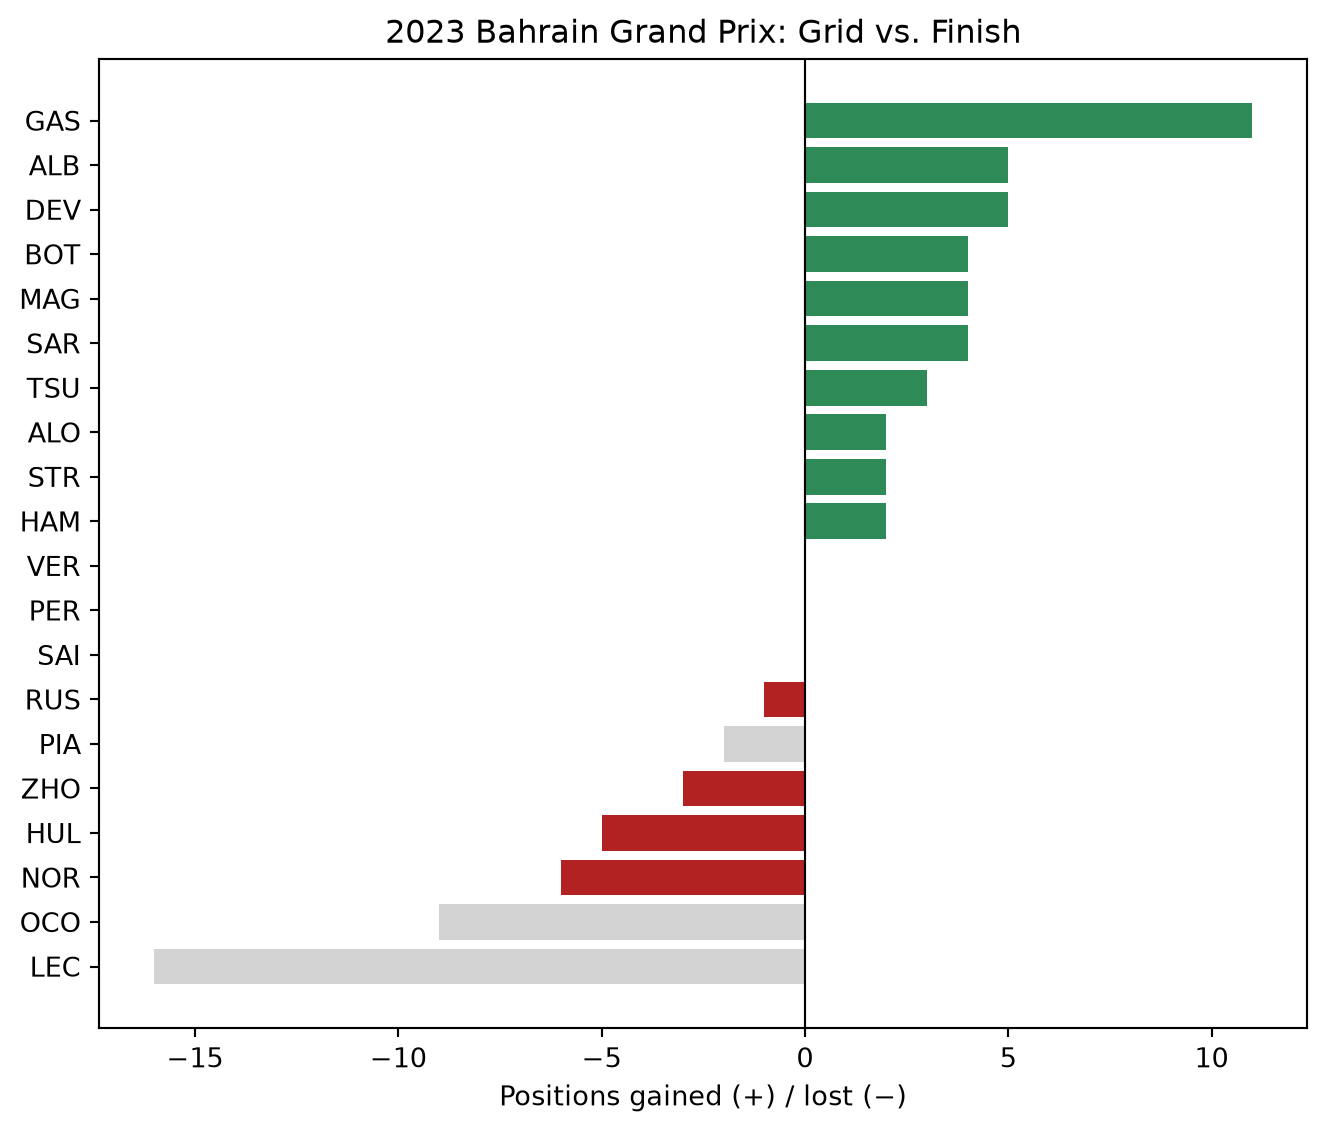
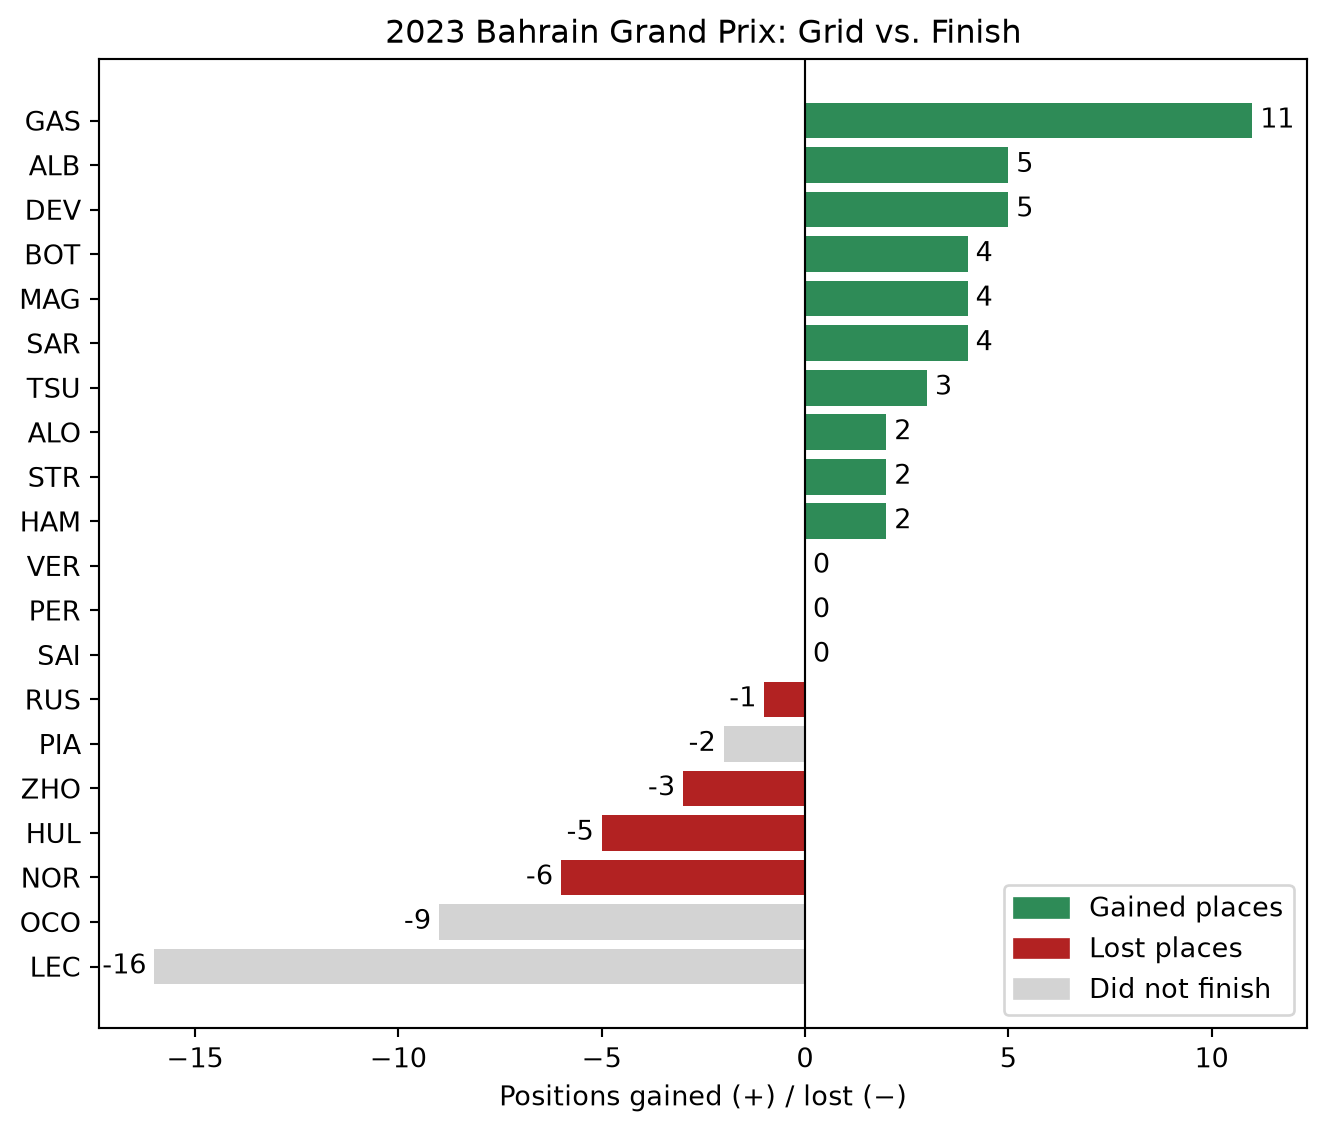
Made improvements to the graph and added the interpretation of the graph

Changed region(s): [[0.7421, 0.7737, 0.9894, 0.8974], [0.3092, 0.8046, 0.3401, 0.8355], [0.0928, 0.8355, 0.1237, 0.8665]]

diff --git a/docs/posts/f1-positions/f1.html b/docs/posts/f1-positions/f1.html
@@ -306,7 +306,7 @@ window.Quarto = {
 </section>
 <section id="step-1-load-the-files" class="level2">
 <h2 class="anchored" data-anchor-id="step-1-load-the-files">Step 1: Load the files</h2>
-<div id="2a79a742" class="cell" data-execution_count="1">
+<div id="09891d88" class="cell" data-execution_count="1">
 <div class="code-copy-outer-scaffold"><div class="sourceCode cell-code" id="cb1"><pre class="sourceCode python code-with-copy"><code class="sourceCode python"><span id="cb1-1"><a href="#cb1-1" aria-hidden="true" tabindex="-1"></a><span class="im">import</span> pandas <span class="im">as</span> pd</span>
 <span id="cb1-2"><a href="#cb1-2" aria-hidden="true" tabindex="-1"></a><span class="im">import</span> matplotlib.pyplot <span class="im">as</span> plt</span>
 <span id="cb1-3"><a href="#cb1-3" aria-hidden="true" tabindex="-1"></a></span>
@@ -382,7 +382,7 @@ window.Quarto = {
 <section id="step-2-pick-one-race" class="level2">
 <h2 class="anchored" data-anchor-id="step-2-pick-one-race">Step 2: Pick one race</h2>
 <p>Each race has its own <code>raceId</code>. Rather than memorizing ID numbers, we can look it up in <code>races</code> by year and name:</p>
-<div id="ba6c0bd4" class="cell" data-execution_count="2">
+<div id="2449435b" class="cell" data-execution_count="2">
 <div class="code-copy-outer-scaffold"><div class="sourceCode cell-code" id="cb2"><pre class="sourceCode python code-with-copy"><code class="sourceCode python"><span id="cb2-1"><a href="#cb2-1" aria-hidden="true" tabindex="-1"></a>YEAR <span class="op">=</span> <span class="dv">2023</span></span>
 <span id="cb2-2"><a href="#cb2-2" aria-hidden="true" tabindex="-1"></a>RACE <span class="op">=</span> <span class="st">"Bahrain Grand Prix"</span></span>
 <span id="cb2-3"><a href="#cb2-3" aria-hidden="true" tabindex="-1"></a></span>
@@ -400,7 +400,7 @@ window.Quarto = {
 <section id="step-3-filter-and-merge" class="level2">
 <h2 class="anchored" data-anchor-id="step-3-filter-and-merge">Step 3: Filter and merge</h2>
 <p>Now we keep only the rows for that race and use <code>.merge()</code> to attach each driver’s three-letter code (like <code>VER</code> or <code>HAM</code>) by matching on <code>driverId</code>:</p>
-<div id="91aa9662" class="cell" data-execution_count="3">
+<div id="f627aa9d" class="cell" data-execution_count="3">
 <div class="code-copy-outer-scaffold"><div class="sourceCode cell-code" id="cb4"><pre class="sourceCode python code-with-copy"><code class="sourceCode python"><span id="cb4-1"><a href="#cb4-1" aria-hidden="true" tabindex="-1"></a>df <span class="op">=</span> (</span>
 <span id="cb4-2"><a href="#cb4-2" aria-hidden="true" tabindex="-1"></a>    results[results[<span class="st">"raceId"</span>] <span class="op">==</span> race_id]</span>
 <span id="cb4-3"><a href="#cb4-3" aria-hidden="true" tabindex="-1"></a>    .merge(drivers[[<span class="st">"driverId"</span>, <span class="st">"code"</span>, <span class="st">"surname"</span>]], on<span class="op">=</span><span class="st">"driverId"</span>)</span>
@@ -480,7 +480,7 @@ window.Quarto = {
 <li><strong>Pit-lane starts.</strong> A driver who starts from the pit lane has <code>grid = 0</code>. Left alone, that would make it look like they started <em>ahead</em> of pole position. We’ll treat them as starting from the back of the grid.</li>
 <li><strong>Did not finish (DNF).</strong> A driver who retires on lap 1 will look like they “lost” a lot of places, even though they didn’t race. We’ll flag those drivers so we can interpret them separately.</li>
 </ol>
-<div id="8682a9fa" class="cell" data-execution_count="4">
+<div id="7984eca3" class="cell" data-execution_count="4">
 <div class="code-copy-outer-scaffold"><div class="sourceCode cell-code" id="cb5"><pre class="sourceCode python code-with-copy"><code class="sourceCode python"><span id="cb5-1"><a href="#cb5-1" aria-hidden="true" tabindex="-1"></a>n_starters <span class="op">=</span> <span class="bu">len</span>(df)</span>
 <span id="cb5-2"><a href="#cb5-2" aria-hidden="true" tabindex="-1"></a>df[<span class="st">"grid_position"</span>] <span class="op">=</span> df[<span class="st">"grid_position"</span>].replace(<span class="dv">0</span>, n_starters)</span>
 <span id="cb5-3"><a href="#cb5-3" aria-hidden="true" tabindex="-1"></a></span>
@@ -500,7 +500,7 @@ window.Quarto = {
 <li><span class="math inline">\(\Delta_i = 0\)</span>: the driver finished where they started</li>
 </ul>
 <p>In pandas, subtracting two columns works row by row automatically, so this is one line:</p>
-<div id="133d0214" class="cell" data-execution_count="5">
+<div id="44663a7d" class="cell" data-execution_count="5">
 <div class="code-copy-outer-scaffold"><div class="sourceCode cell-code" id="cb6"><pre class="sourceCode python code-with-copy"><code class="sourceCode python"><span id="cb6-1"><a href="#cb6-1" aria-hidden="true" tabindex="-1"></a>df[<span class="st">"positions_changed"</span>] <span class="op">=</span> df[<span class="st">"grid_position"</span>] <span class="op">-</span> df[<span class="st">"finish_position"</span>]</span>
 <span id="cb6-2"><a href="#cb6-2" aria-hidden="true" tabindex="-1"></a></span>
 <span id="cb6-3"><a href="#cb6-3" aria-hidden="true" tabindex="-1"></a>df <span class="op">=</span> df.sort_values(<span class="st">"positions_changed"</span>, ascending<span class="op">=</span><span class="va">False</span>)</span>
@@ -693,25 +693,36 @@ window.Quarto = {
 <h2 class="anchored" data-anchor-id="step-6-visualize-it">Step 6: Visualize it</h2>
 <p>A table works, but a bar chart makes the pattern obvious at a glance. We’ll color gains green, losses red, and drivers who didn’t finish gray.</p>
 <div id="cell-fig-positions" class="cell" data-execution_count="6">
-<div class="code-copy-outer-scaffold"><div class="sourceCode cell-code" id="cb7"><pre class="sourceCode python code-with-copy"><code class="sourceCode python"><span id="cb7-1"><a href="#cb7-1" aria-hidden="true" tabindex="-1"></a><span class="kw">def</span> bar_color(row):</span>
-<span id="cb7-2"><a href="#cb7-2" aria-hidden="true" tabindex="-1"></a>    <span class="cf">if</span> <span class="kw">not</span> row[<span class="st">"classified"</span>]:</span>
-<span id="cb7-3"><a href="#cb7-3" aria-hidden="true" tabindex="-1"></a>        <span class="cf">return</span> <span class="st">"lightgray"</span></span>
-<span id="cb7-4"><a href="#cb7-4" aria-hidden="true" tabindex="-1"></a>    <span class="cf">if</span> row[<span class="st">"positions_changed"</span>] <span class="op">&gt;</span> <span class="dv">0</span>:</span>
-<span id="cb7-5"><a href="#cb7-5" aria-hidden="true" tabindex="-1"></a>        <span class="cf">return</span> <span class="st">"seagreen"</span></span>
-<span id="cb7-6"><a href="#cb7-6" aria-hidden="true" tabindex="-1"></a>    <span class="cf">if</span> row[<span class="st">"positions_changed"</span>] <span class="op">&lt;</span> <span class="dv">0</span>:</span>
-<span id="cb7-7"><a href="#cb7-7" aria-hidden="true" tabindex="-1"></a>        <span class="cf">return</span> <span class="st">"firebrick"</span></span>
-<span id="cb7-8"><a href="#cb7-8" aria-hidden="true" tabindex="-1"></a>    <span class="cf">return</span> <span class="st">"gray"</span></span>
-<span id="cb7-9"><a href="#cb7-9" aria-hidden="true" tabindex="-1"></a></span>
-<span id="cb7-10"><a href="#cb7-10" aria-hidden="true" tabindex="-1"></a>colors <span class="op">=</span> df.<span class="bu">apply</span>(bar_color, axis<span class="op">=</span><span class="dv">1</span>)</span>
+<div class="code-copy-outer-scaffold"><div class="sourceCode cell-code" id="cb7"><pre class="sourceCode python code-with-copy"><code class="sourceCode python"><span id="cb7-1"><a href="#cb7-1" aria-hidden="true" tabindex="-1"></a><span class="im">from</span> matplotlib.patches <span class="im">import</span> Patch</span>
+<span id="cb7-2"><a href="#cb7-2" aria-hidden="true" tabindex="-1"></a></span>
+<span id="cb7-3"><a href="#cb7-3" aria-hidden="true" tabindex="-1"></a><span class="kw">def</span> bar_color(row):</span>
+<span id="cb7-4"><a href="#cb7-4" aria-hidden="true" tabindex="-1"></a>    <span class="cf">if</span> <span class="kw">not</span> row[<span class="st">"classified"</span>]:</span>
+<span id="cb7-5"><a href="#cb7-5" aria-hidden="true" tabindex="-1"></a>        <span class="cf">return</span> <span class="st">"lightgray"</span></span>
+<span id="cb7-6"><a href="#cb7-6" aria-hidden="true" tabindex="-1"></a>    <span class="cf">if</span> row[<span class="st">"positions_changed"</span>] <span class="op">&gt;</span> <span class="dv">0</span>:</span>
+<span id="cb7-7"><a href="#cb7-7" aria-hidden="true" tabindex="-1"></a>        <span class="cf">return</span> <span class="st">"seagreen"</span></span>
+<span id="cb7-8"><a href="#cb7-8" aria-hidden="true" tabindex="-1"></a>    <span class="cf">if</span> row[<span class="st">"positions_changed"</span>] <span class="op">&lt;</span> <span class="dv">0</span>:</span>
+<span id="cb7-9"><a href="#cb7-9" aria-hidden="true" tabindex="-1"></a>        <span class="cf">return</span> <span class="st">"firebrick"</span></span>
+<span id="cb7-10"><a href="#cb7-10" aria-hidden="true" tabindex="-1"></a>    <span class="cf">return</span> <span class="st">"gray"</span></span>
 <span id="cb7-11"><a href="#cb7-11" aria-hidden="true" tabindex="-1"></a></span>
-<span id="cb7-12"><a href="#cb7-12" aria-hidden="true" tabindex="-1"></a>fig, ax <span class="op">=</span> plt.subplots(figsize<span class="op">=</span>(<span class="dv">7</span>, <span class="dv">6</span>))</span>
-<span id="cb7-13"><a href="#cb7-13" aria-hidden="true" tabindex="-1"></a>ax.barh(df[<span class="st">"code"</span>], df[<span class="st">"positions_changed"</span>], color<span class="op">=</span>colors)</span>
-<span id="cb7-14"><a href="#cb7-14" aria-hidden="true" tabindex="-1"></a>ax.axvline(<span class="dv">0</span>, color<span class="op">=</span><span class="st">"black"</span>, linewidth<span class="op">=</span><span class="fl">0.8</span>)</span>
-<span id="cb7-15"><a href="#cb7-15" aria-hidden="true" tabindex="-1"></a>ax.invert_yaxis()  <span class="co"># biggest gainer at the top</span></span>
-<span id="cb7-16"><a href="#cb7-16" aria-hidden="true" tabindex="-1"></a>ax.set_xlabel(<span class="st">"Positions gained (+) / lost (−)"</span>)</span>
-<span id="cb7-17"><a href="#cb7-17" aria-hidden="true" tabindex="-1"></a>ax.set_title(<span class="ss">f"</span><span class="sc">{</span>YEAR<span class="sc">}</span><span class="ss"> </span><span class="sc">{</span>RACE<span class="sc">}</span><span class="ss">: Grid vs. Finish"</span>)</span>
-<span id="cb7-18"><a href="#cb7-18" aria-hidden="true" tabindex="-1"></a>plt.tight_layout()</span>
-<span id="cb7-19"><a href="#cb7-19" aria-hidden="true" tabindex="-1"></a>plt.show()</span></code></pre></div><button title="Copy to Clipboard" class="code-copy-button"><i class="bi"></i></button></div>
+<span id="cb7-12"><a href="#cb7-12" aria-hidden="true" tabindex="-1"></a>colors <span class="op">=</span> df.<span class="bu">apply</span>(bar_color, axis<span class="op">=</span><span class="dv">1</span>)</span>
+<span id="cb7-13"><a href="#cb7-13" aria-hidden="true" tabindex="-1"></a></span>
+<span id="cb7-14"><a href="#cb7-14" aria-hidden="true" tabindex="-1"></a>fig, ax <span class="op">=</span> plt.subplots(figsize<span class="op">=</span>(<span class="dv">7</span>, <span class="dv">6</span>))</span>
+<span id="cb7-15"><a href="#cb7-15" aria-hidden="true" tabindex="-1"></a>bars <span class="op">=</span> ax.barh(df[<span class="st">"code"</span>], df[<span class="st">"positions_changed"</span>], color<span class="op">=</span>colors)</span>
+<span id="cb7-16"><a href="#cb7-16" aria-hidden="true" tabindex="-1"></a>ax.bar_label(bars, padding<span class="op">=</span><span class="dv">3</span>)</span>
+<span id="cb7-17"><a href="#cb7-17" aria-hidden="true" tabindex="-1"></a>ax.axvline(<span class="dv">0</span>, color<span class="op">=</span><span class="st">"black"</span>, linewidth<span class="op">=</span><span class="fl">0.8</span>)</span>
+<span id="cb7-18"><a href="#cb7-18" aria-hidden="true" tabindex="-1"></a>ax.invert_yaxis()  <span class="co"># biggest gainer at the top</span></span>
+<span id="cb7-19"><a href="#cb7-19" aria-hidden="true" tabindex="-1"></a>ax.set_xlabel(<span class="st">"Positions gained (+) / lost (−)"</span>)</span>
+<span id="cb7-20"><a href="#cb7-20" aria-hidden="true" tabindex="-1"></a>ax.set_title(<span class="ss">f"</span><span class="sc">{</span>YEAR<span class="sc">}</span><span class="ss"> </span><span class="sc">{</span>RACE<span class="sc">}</span><span class="ss">: Grid vs. Finish"</span>)</span>
+<span id="cb7-21"><a href="#cb7-21" aria-hidden="true" tabindex="-1"></a>ax.legend(</span>
+<span id="cb7-22"><a href="#cb7-22" aria-hidden="true" tabindex="-1"></a>    handles<span class="op">=</span>[</span>
+<span id="cb7-23"><a href="#cb7-23" aria-hidden="true" tabindex="-1"></a>        Patch(color<span class="op">=</span><span class="st">"seagreen"</span>, label<span class="op">=</span><span class="st">"Gained places"</span>),</span>
+<span id="cb7-24"><a href="#cb7-24" aria-hidden="true" tabindex="-1"></a>        Patch(color<span class="op">=</span><span class="st">"firebrick"</span>, label<span class="op">=</span><span class="st">"Lost places"</span>),</span>
+<span id="cb7-25"><a href="#cb7-25" aria-hidden="true" tabindex="-1"></a>        Patch(color<span class="op">=</span><span class="st">"lightgray"</span>, label<span class="op">=</span><span class="st">"Did not finish"</span>),</span>
+<span id="cb7-26"><a href="#cb7-26" aria-hidden="true" tabindex="-1"></a>    ],</span>
+<span id="cb7-27"><a href="#cb7-27" aria-hidden="true" tabindex="-1"></a>    loc<span class="op">=</span><span class="st">"lower right"</span>,</span>
+<span id="cb7-28"><a href="#cb7-28" aria-hidden="true" tabindex="-1"></a>)</span>
+<span id="cb7-29"><a href="#cb7-29" aria-hidden="true" tabindex="-1"></a>plt.tight_layout()</span>
+<span id="cb7-30"><a href="#cb7-30" aria-hidden="true" tabindex="-1"></a>plt.show()</span></code></pre></div><button title="Copy to Clipboard" class="code-copy-button"><i class="bi"></i></button></div>
 <div class="cell-output cell-output-display">
 <div id="fig-positions" class="quarto-float quarto-figure quarto-figure-center anchored" alt="Horizontal bar chart of each driver's change in position from grid to finish. Bars to the right in green show places gained, bars to the left in red show places lost, and gray bars mark drivers who did not finish.">
 <figure class="quarto-float quarto-float-fig figure">
@@ -732,13 +743,14 @@ Figure&nbsp;1: Positions gained or lost from the starting grid to the finish.
 <!-- - Who gained the most places, and why might that be? (bad qualifying, strategy, fast car) -->
 <!-- - Who lost the most among drivers who finished? -->
 <!-- - Did any DNFs make the chart look misleading? This is why we flagged them. -->
-<p>[Write 1–2 short paragraphs here about who gained, who lost, and what the gray DNF bars tell you.]</p>
+<p>From this chart, we can see that Gasly gained the most places of any driver, while Norris lost the most places among drivers who finished the race. Leclerc’s −16 looks worse than Norris’s, but because we flagged him as a DNF, we know that drop came from retiring, not from being passed. The DNFs also help explain Gasly’s big gain: starting near the back, he moved up automatically when three cars ahead of him retired, so roughly 8 of his 11 places came from racing.</p>
+<p>It’s also worth noticing that Verstappen, Pérez, and Sainz show no change at all. A driver who starts on pole can’t gain places, so this metric naturally favors drivers who start further back.</p>
 <p>Keep one limitation in mind: the <code>grid</code> column is the <strong>starting grid</strong>, not the raw qualifying result. If a driver received a grid penalty, their grid position may be worse than where they qualified, which can make their race look better than it was.</p>
 </section>
 <section id="conclusion-and-next-steps" class="level2">
 <h2 class="anchored" data-anchor-id="conclusion-and-next-steps">Conclusion and next steps</h2>
 <p>With just a merge, one subtraction, and a sort, we turned three separate CSV files into a clear picture of who had the best race day. The same pattern (subtract two columns, sort, plot) works for any “before vs.&nbsp;after” comparison, like test scores before and after a study session or prices before and after a sale.</p>
-<p><strong>Your turn:</strong> change <code>YEAR</code> and <code>RACE</code> to a race you remember, especially a chaotic one with rain or safety cars, and see how the chart changes. For a bigger challenge, try using <code>.groupby("driverId")</code> to find each driver’s <strong>average</strong> positions gained across a whole season. Who is the best racer when qualifying doesn’t go their way?</p>
+<p><strong>Your turn:</strong> Change <code>YEAR</code> and <code>RACE</code> to a race you remember, especially a chaotic one with rain or safety cars, and see how the chart changes. For a bigger challenge, try using <code>.groupby("driverId")</code> to find each driver’s <strong>average</strong> positions gained across a whole season. Who is the best racer when qualifying doesn’t go their way?</p>
 <p><strong>Resources:</strong></p>
 <ul>
 <li><a href="https://www.kaggle.com/datasets/rohanrao/formula-1-world-championship-1950-2020">Kaggle: Formula 1 World Championship dataset</a></li>

diff --git a/docs/blogs.html b/docs/blogs.html
@@ -213,7 +213,7 @@ window.Quarto = {
 
 <div class="quarto-listing quarto-listing-container-default" id="listing-listing">
 <div class="list quarto-listing-default">
-<div class="quarto-post image-right" data-index="0" data-categories="cGFuZGFzJTJDdmlzdWFsaXphdGlvbiUyQ0Zvcm11bGElMjAx" data-listing-date-sort="1791871200000" data-listing-file-modified-sort="1792104742709" data-listing-date-modified-sort="NaN" data-listing-reading-time-sort="6" data-listing-word-count-sort="1074">
+<div class="quarto-post image-right" data-index="0" data-categories="cGFuZGFzJTJDdmlzdWFsaXphdGlvbiUyQ0Zvcm11bGElMjAx" data-listing-date-sort="1791871200000" data-listing-file-modified-sort="1792121064627" data-listing-date-modified-sort="NaN" data-listing-reading-time-sort="7" data-listing-word-count-sort="1223">
 <div class="thumbnail"><a href="./posts/f1-positions/f1.html" class="no-external">
 
 <p class="card-img-top"><img loading='lazy' src="posts\f1-positions\f1_files\figure-html\fig-positions-output-1.png" alt="Horizontal bar chart of each driver's change in position from grid to finish. Bars to the right in green show places gained, bars to the left in red show places lost, and gray bars mark drivers who did not finish."  class="thumbnail-image card-img"/></p>
